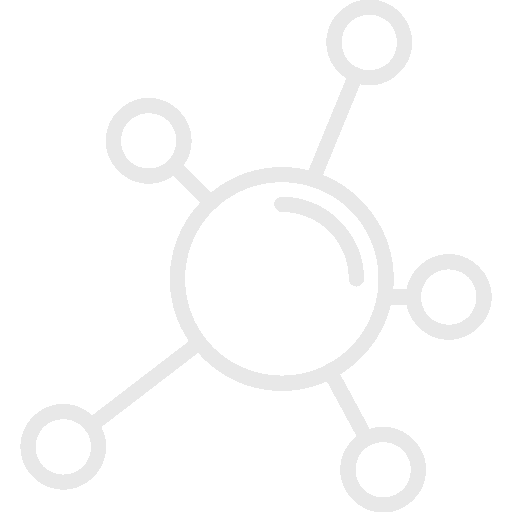
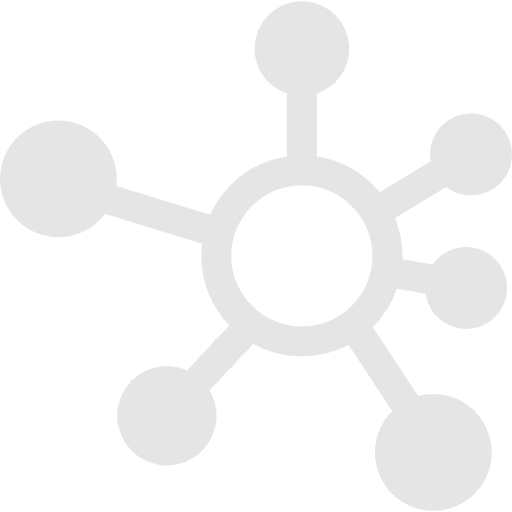
v0.6 update 2 moving forward with explore service imp

Changed region(s): [[0.0, 0.0, 1.0, 1.0]]

diff --git a/src/app/version-notes/version-notes.component.html b/src/app/version-notes/version-notes.component.html
@@ -14,14 +14,18 @@
   <div class="v-note-credits">
     Sourcing material used:
     <ul>
+
       <li>
-        <a href="https://www.flaticon.com/free-icons/mind-map" title="mind map icons">Mind map icons created by manshagraphics - Flaticon</a>
+        <a href="https://www.flaticon.com/free-icons/connector" title="connector icons">Connector icons created by Freepik - Flaticon</a>
+      </li>
+      <li>
+        <a href="https://www.flaticon.com/free-icons/journal" title="journal icons">Journal icons created by Freepik - Flaticon</a>
       </li>
       <li>
         <a href="https://www.flaticon.com/free-icons/list" title="list icons">Todo list icons created by Freepik - Flaticon</a>
       </li>
       <li>
-        <a href="https://www.flaticon.com/free-icons/upgrade" title="upgrade icons">Version notes icons created by Triangle Squad - Flaticon</a>
+        <a href="https://www.flaticon.com/free-icons/upgrade" title="upgrade icons">Upgrade icons created by Elastic1 - Flaticon</a>
       </li>
       <li>
         <a href="https://www.flaticon.com/free-icons/log-out" title="log out icons">Log out icons created by Aldo Cervantes - Flaticon</a>

diff --git a/src/app/app-routing.module.ts b/src/app/app-routing.module.ts
@@ -4,6 +4,7 @@ import { CoreDispComponent } from './core-disp/core-disp.component';
 import { ExploreComponent } from './explore/explore.component';
 import { JournalComponent } from './journal/journal.component';
 import { LandingComponent } from './landing/landing.component';
+import { MindmapComponent } from './mindmap/mindmap.component';
 import { VersionNotesComponent } from './version-notes/version-notes.component';
 
 export const routes: Routes = [
@@ -13,8 +14,9 @@ export const routes: Routes = [
   { path: 'core-disp', 
     component: CoreDispComponent,
     children: [
-      { path: 'explore', title: 'explore', component: ExploreComponent },
+      { path: 'mindmap', title: 'mindmap', component: MindmapComponent },
       { path: 'journal', title: 'journal', component: JournalComponent },
+      { path: 'explore', title: 'explore', component: ExploreComponent },
       { path: 'version-notes', title: 'version-notes', component: VersionNotesComponent }
     ] 
   },

diff --git a/src/app/app.module.ts b/src/app/app.module.ts
@@ -11,6 +11,7 @@ import { SideNavComponent } from './side-nav/side-nav.component';
 import { VersionNotesComponent } from './version-notes/version-notes.component';
 import { provideRouter, withRouterConfig } from '@angular/router';
 import { GoalsComponent } from './goals/goals.component';
+import { MindmapComponent } from './mindmap/mindmap.component';
 
 @NgModule({
   declarations: [
@@ -21,7 +22,8 @@ import { GoalsComponent } from './goals/goals.component';
     CoreDispComponent,
     SideNavComponent,
     VersionNotesComponent,
-    GoalsComponent
+    GoalsComponent,
+    MindmapComponent
   ],
   imports: [
     BrowserModule,

diff --git a/src/app/mindmap/mindmap.component.spec.ts b/src/app/mindmap/mindmap.component.spec.ts
@@ -1,0 +1,23 @@
+import { ComponentFixture, TestBed } from '@angular/core/testing';
+
+import { MindmapComponent } from './mindmap.component';
+
+describe('MindmapComponent', () => {
+  let component: MindmapComponent;
+  let fixture: ComponentFixture<MindmapComponent>;
+
+  beforeEach(async () => {
+    await TestBed.configureTestingModule({
+      declarations: [ MindmapComponent ]
+    })
+    .compileComponents();
+
+    fixture = TestBed.createComponent(MindmapComponent);
+    component = fixture.componentInstance;
+    fixture.detectChanges();
+  });
+
+  it('should create', () => {
+    expect(component).toBeTruthy();
+  });
+});

diff --git a/src/app/persistency.service.spec.ts b/src/app/persistency.service.spec.ts
@@ -1,0 +1,16 @@
+import { TestBed } from '@angular/core/testing';
+
+import { PersistencyService } from './persistency.service';
+
+describe('PersistencyService', () => {
+  let service: PersistencyService;
+
+  beforeEach(() => {
+    TestBed.configureTestingModule({});
+    service = TestBed.inject(PersistencyService);
+  });
+
+  it('should be created', () => {
+    expect(service).toBeTruthy();
+  });
+});

diff --git a/src/app/explore.service.spec.ts b/src/app/explore.service.spec.ts
@@ -1,0 +1,16 @@
+import { TestBed } from '@angular/core/testing';
+
+import { ExploreService } from './explore.service';
+
+describe('ExploreService', () => {
+  let service: ExploreService;
+
+  beforeEach(() => {
+    TestBed.configureTestingModule({});
+    service = TestBed.inject(ExploreService);
+  });
+
+  it('should be created', () => {
+    expect(service).toBeTruthy();
+  });
+});

diff --git a/src/app/journal.service.spec.ts b/src/app/journal.service.spec.ts
@@ -1,0 +1,16 @@
+import { TestBed } from '@angular/core/testing';
+
+import { JournalService } from './journal.service';
+
+describe('JournalService', () => {
+  let service: JournalService;
+
+  beforeEach(() => {
+    TestBed.configureTestingModule({});
+    service = TestBed.inject(JournalService);
+  });
+
+  it('should be created', () => {
+    expect(service).toBeTruthy();
+  });
+});

diff --git a/src/app/mindmap.service.spec.ts b/src/app/mindmap.service.spec.ts
@@ -1,0 +1,16 @@
+import { TestBed } from '@angular/core/testing';
+
+import { MindmapService } from './mindmap.service';
+
+describe('MindmapService', () => {
+  let service: MindmapService;
+
+  beforeEach(() => {
+    TestBed.configureTestingModule({});
+    service = TestBed.inject(MindmapService);
+  });
+
+  it('should be created', () => {
+    expect(service).toBeTruthy();
+  });
+});

diff --git a/src/app/landing/landing-options.ts b/src/app/landing/landing-options.ts
@@ -7,9 +7,14 @@ export interface LandingOption {
 export const currentOptions = [
 
     {
-        name: 'journal',
+        name: 'mindmap',
         accessToken: 'test-token',
         icon: '/assets/flaticon/sn_mm.png'
+    },
+    {
+        name: 'journal',
+        accessToken: 'test-token',
+        icon: '/assets/flaticon/sn_journal.png'
     },
     {
 

diff --git a/src/app/mindmap/mindmap.component.ts b/src/app/mindmap/mindmap.component.ts
@@ -1,0 +1,15 @@
+import { Component, OnInit } from '@angular/core';
+
+@Component({
+  selector: 'app-mindmap',
+  templateUrl: './mindmap.component.html',
+  styleUrls: ['./mindmap.component.css']
+})
+export class MindmapComponent implements OnInit {
+
+  constructor() { }
+
+  ngOnInit(): void {
+  }
+
+}

diff --git a/src/app/explore.service.ts b/src/app/explore.service.ts
@@ -1,0 +1,16 @@
+import { Injectable } from '@angular/core';
+
+@Injectable({
+  providedIn: 'root'
+})
+export class ExploreService {
+
+  constructor() { }
+
+  addTodo(todoText: string) {
+
+    // TODO: imp
+  }
+
+  // updateTodo()
+}

diff --git a/src/app/persistency.service.ts b/src/app/persistency.service.ts
@@ -1,0 +1,9 @@
+import { Injectable } from '@angular/core';
+
+@Injectable({
+  providedIn: 'root'
+})
+export class PersistencyService {
+
+  constructor() { }
+}
